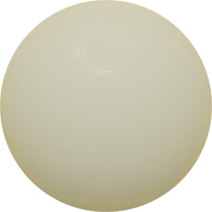
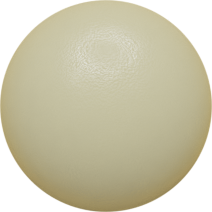
Numerous improvements to antique and yunzi themes

Changed region(s): [[0.0849, 0.3962, 1.0, 1.0], [0.0283, 0.6509, 0.0849, 0.7642], [0.0, 0.4811, 0.0283, 0.566]]

diff --git a/yunzi/theme/styles.css b/yunzi/theme/styles.css
@@ -6,7 +6,7 @@
     --shudan-black-foreground-color: #eee;
 
     --shudan-white-background-color: #EBEBEB;
-    --shudan-white-foreground-color: #222;
+    --shudan-white-foreground-color: #eee;
 }
 
 .shudan-goban-image {
@@ -14,12 +14,53 @@
   background-image: url('images/Board.png');
 }
 
+/* All stones are slightly different thickness
+ * therefore slightly different shading.
+ */
 .shudan-stone-image.shudan-sign_1 {
-    background-image: url('images/BlackStone.png');
+    background-image: url('images/BlackStone1.png');
+}
+
+.shudan-stone-image.shudan-sign_1.shudan-random_1 {
+    background-image: url('images/BlackStone2.png');
+}
+
+.shudan-stone-image.shudan-sign_1.shudan-random_2 {
+    background-image: url('images/BlackStone3.png');
+}
+
+.shudan-stone-image.shudan-sign_1.shudan-random_3 {
+    background-image: url('images/BlackStone4.png');
 }
 
 .shudan-stone-image.shudan-sign_-1 {
-    background-image: url('images/WhiteStone.png');
+    background-image: url('images/WhiteStone1.png');
+}
+
+.shudan-stone-image.shudan-sign_-1.shudan-random_1 {
+    background-image: url('images/WhiteStone2.png');
+}
+
+.shudan-stone-image.shudan-sign_-1.shudan-random_2 {
+    background-image: url('images/WhiteStone3.png');
+}
+
+.shudan-stone-image.shudan-sign_-1.shudan-random_3 {
+    background-image: url('images/WhiteStone4.png');
+}
+
+/* The default dark grey background was producing noticeable
+ * dark rings around the white stones when viewing a 9x9 board
+ * fullscreen. The following 2 settings provide matching
+ * light and dark backgrounds for the white and black stones.
+ */
+
+.shudan-vertex:not(.shudan-sign_0).shudan-sign_1 .shudan-shadow {
+    background: #61543b
+}
+
+.shudan-vertex:not(.shudan-sign_0).shudan-sign_-1 .shudan-shadow {
+    background: #a39e8a
 }
 
 main {background: #f0f0f0 url('images/Mat.png') left top;}

diff --git a/antique/theme/styles.css b/antique/theme/styles.css
@@ -6,7 +6,7 @@
     --shudan-black-foreground-color: #eee;
 
     --shudan-white-background-color: #EBEBEB;
-    --shudan-white-foreground-color: #222;
+    --shudan-white-foreground-color: #666;
 }
 
 .shudan-goban-image {
@@ -20,6 +20,16 @@
 
 .shudan-stone-image.shudan-sign_-1 {
     background-image: url('images/YellowStone.png');
+}
+
+/* The default dark grey background was producing noticeable
+ * dark rings around the white stones when viewing a 9x9 board
+ * fullscreen. The following setting provides a matching
+ * light background for the white stones.
+ */
+
+.shudan-vertex:not(.shudan-sign_0).shudan-sign_-1 .shudan-shadow {
+    background: #a99e7a
 }
 
 main {background: #f0f0f0 url('images/Carpet.png') left top;}
